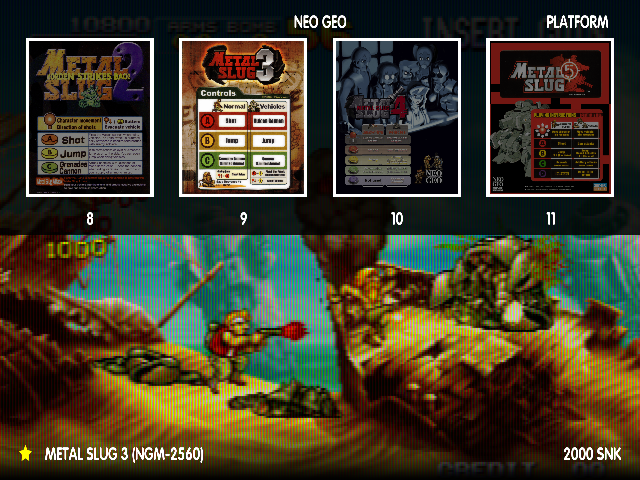
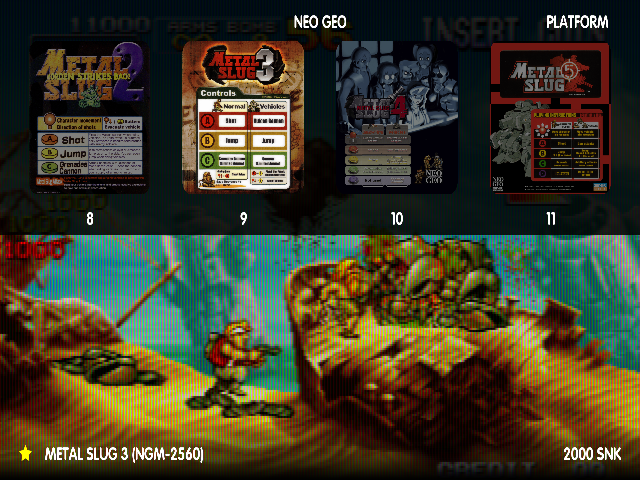
Slots now have round corners

diff --git a/readme.md b/readme.md
@@ -21,7 +21,7 @@ You may need to change file paths as necessary if your differs.
 
 1. copy layout files to ```$HOME/Apps/AttractModeFE/layouts/mvscomplete/```
 2. The [Debug module](https://github.com/keilmillerjr/debug-module) is optional. It is recommended for debugging.
-3. The [Shader module](https://github.com/keilmillerjr/shader-module) is optional. It is required for you to install it if you intend to use crt shaders within the layout.
+3. The [Shader module](https://github.com/keilmillerjr/shader-module) is RECOMMENDED. It is required for you to install it if you intend to use crt shaders within the layout, or have round corners on the slot artwork.
 4. The [Helpers module](https://github.com/keilmillerjr/helpers-module) is REQUIRED for you to install. The layout will not work correctly without it.
 5. The [MVS module](https://github.com/keilmillerjr/mvs-module) is REQUIRED for you to install. The layout will not work correctly without it.
 6. The fade module is required. It is included with attractmode by default. No additional install is required.
